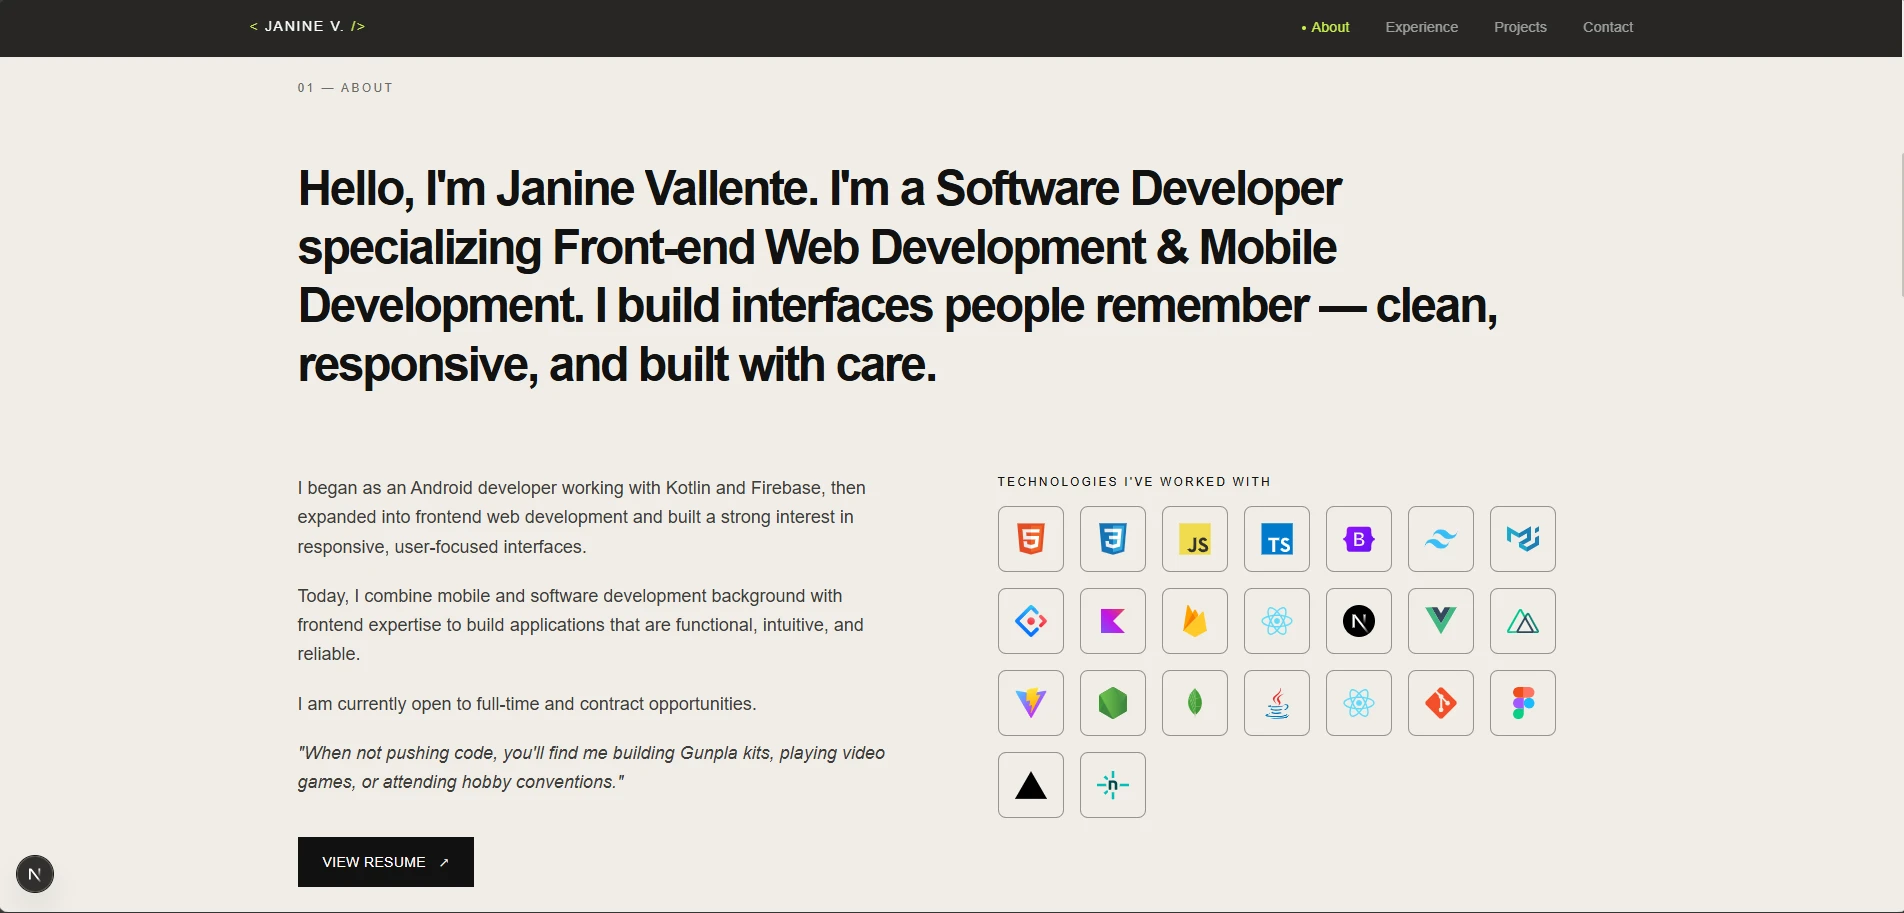
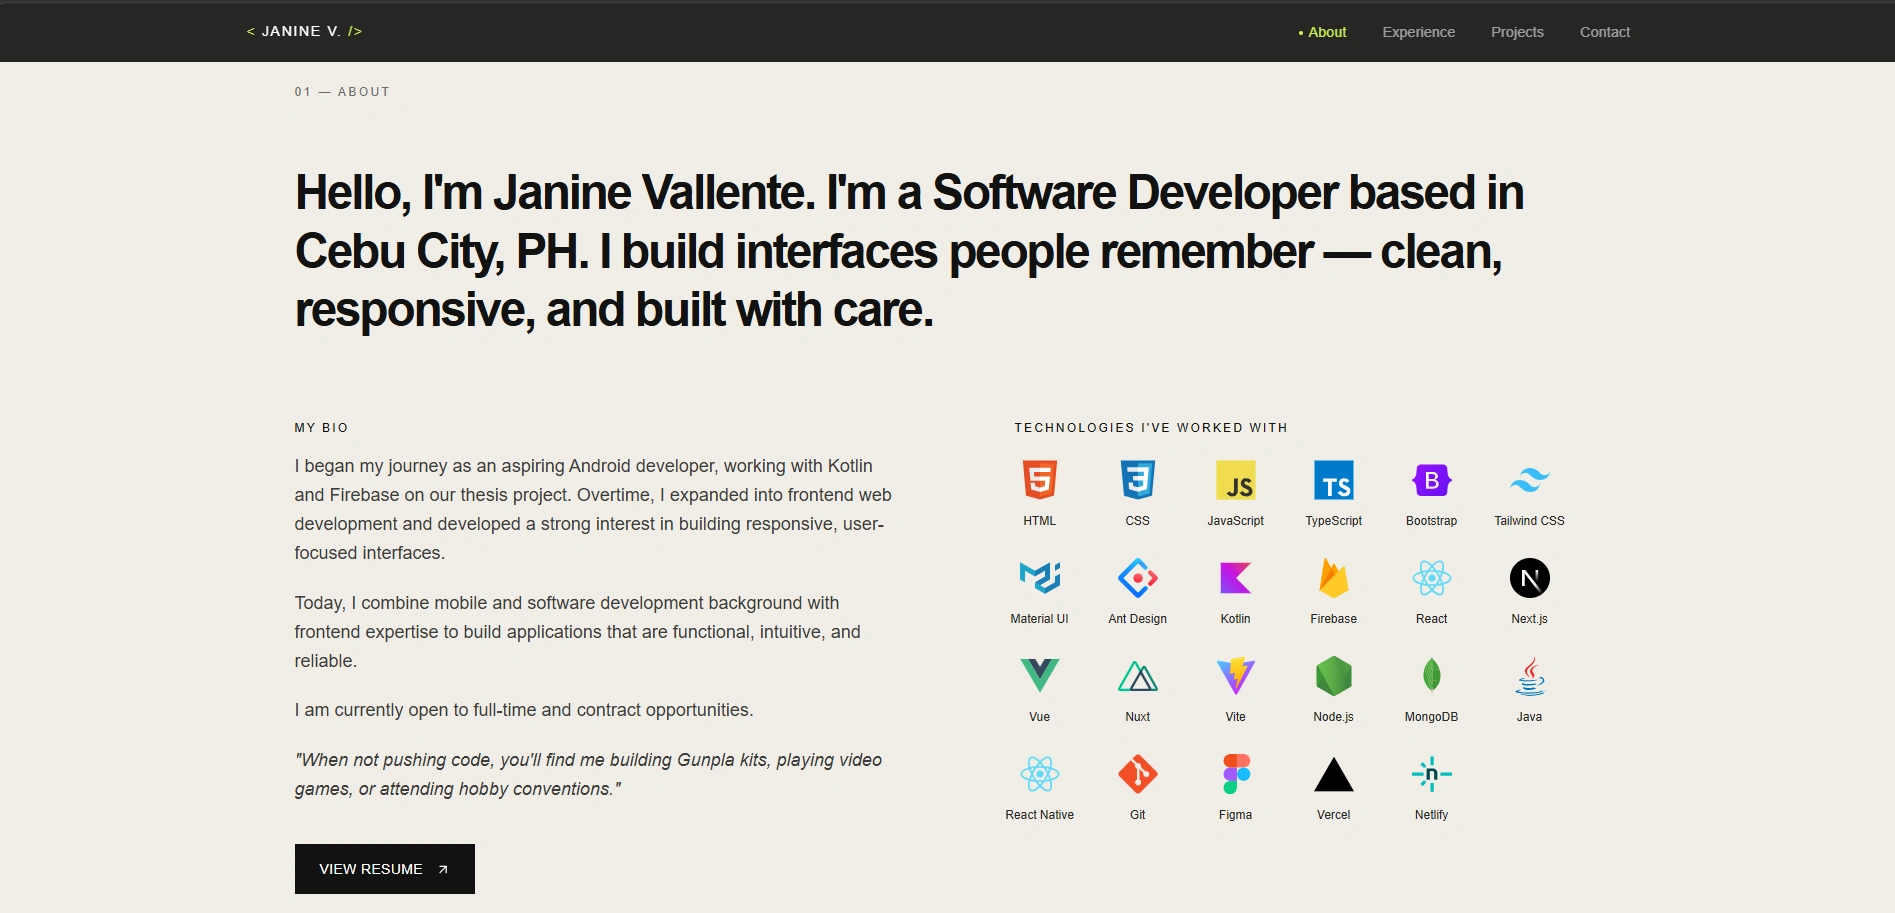
enh: updated about section

diff --git a/src/components/sections/About.tsx b/src/components/sections/About.tsx
@@ -20,7 +20,7 @@ export default function About() {
         {/* Large word-reveal paragraph */}
         <div className="mb-20">
           <WordReveal
-            text="Hello, I'm Janine Vallente. I'm a Software Developer specializing Front-end Web Development & Mobile Development. I build interfaces people remember — clean, responsive, and built with care."
+            text="Hello, I'm Janine Vallente. I'm a Software Developer based in Cebu City, PH. I build interfaces people remember — clean, responsive, and built with care."
             delay={0.05}
             className="font-display text-[clamp(1.65rem,3.6vw,3rem)] font-bold leading-[1.22] text-ink tracking-tighter"
           />
@@ -31,6 +31,9 @@ export default function About() {
           {/* Bio */}
           <FadeUp delay={0.1}>
             <div className="font-body text-[clamp(1rem,1.5vw,1.125rem)] text-ink/80 leading-relaxed">
+              <p className="text-xs tracking-widest-4 uppercase mb-4 font-body text-ink">
+                My Bio
+              </p>
               <p className="mb-5">
                 I began my journey as an aspiring Android developer, working with Kotlin and Firebase on our thesis project.
                 Overtime, I expanded into frontend web development and developed a strong interest in building
@@ -72,31 +75,26 @@ export default function About() {
 
           {/* Skills */}
           <FadeUp delay={0.2}>
-            <div className="flex flex-col gap-10">
-              <div>
-                <p className="text-xs tracking-widest-4 uppercase mb-4 font-body text-ink">
-                  Technologies I&apos;ve Worked With
-                </p>
-                <div className="flex flex-wrap gap-4">
-                  {portfolio.skills.technologies.map((skill, index) => (
-                    <div
-                      key={skill}
-                      className="relative group flex flex-col rounded-lg items-center gap-2 p-4 border border-ink/40 bg-bg transition-colors duration-200 hover:border-ink/40 font-body text-ink-muted"
-                    >
-                      <img
-                        src={`https://cdn.jsdelivr.net/gh/devicons/devicon/icons/${portfolio.skills.icons[index]}.svg`}
-                        alt={skill}
-                        className="w-8 h-8"
-                      />
-                      {/* Tooltip */}
-                      <div className="absolute -top-8 left-1/2 -translate-x-1/2 opacity-0 group-hover:opacity-100 transition-opacity duration-200 pointer-events-none whitespace-nowrap">
-                        <div className="bg-gray-900 text-white text-xs px-2 py-1 rounded shadow-lg">
-                          {skill}
-                        </div>
-                      </div>
-                    </div>
-                  ))}
-                </div>
+            <div>
+              <p className="ps-0 lg:ps-5 text-xs tracking-widest-4 uppercase mb-4 font-body text-ink">
+                Technologies I&apos;ve Worked With
+              </p>
+              <div className="ps-5 md:ps-0 flex flex-wrap gap-2">
+                {portfolio.skills.technologies.map((skill, index) => (
+                  <div
+                    key={skill}
+                    className="flex flex-col items-center justify-center gap-2 p-1 w-[90px] h-[90px] bg-bg transition-colors duration-200 hover:border-ink/50"
+                  >
+                    <img
+                      src={`https://cdn.jsdelivr.net/gh/devicons/devicon/icons/${portfolio.skills.icons[index]}.svg`}
+                      alt={skill}
+                      className="w-10 h-10"
+                    />
+                    <span className="text-[12px] text-ink/90 p-1 truncate w-full text-center">
+                      {skill}
+                    </span>
+                  </div>
+                ))}
               </div>
             </div>
           </FadeUp>
